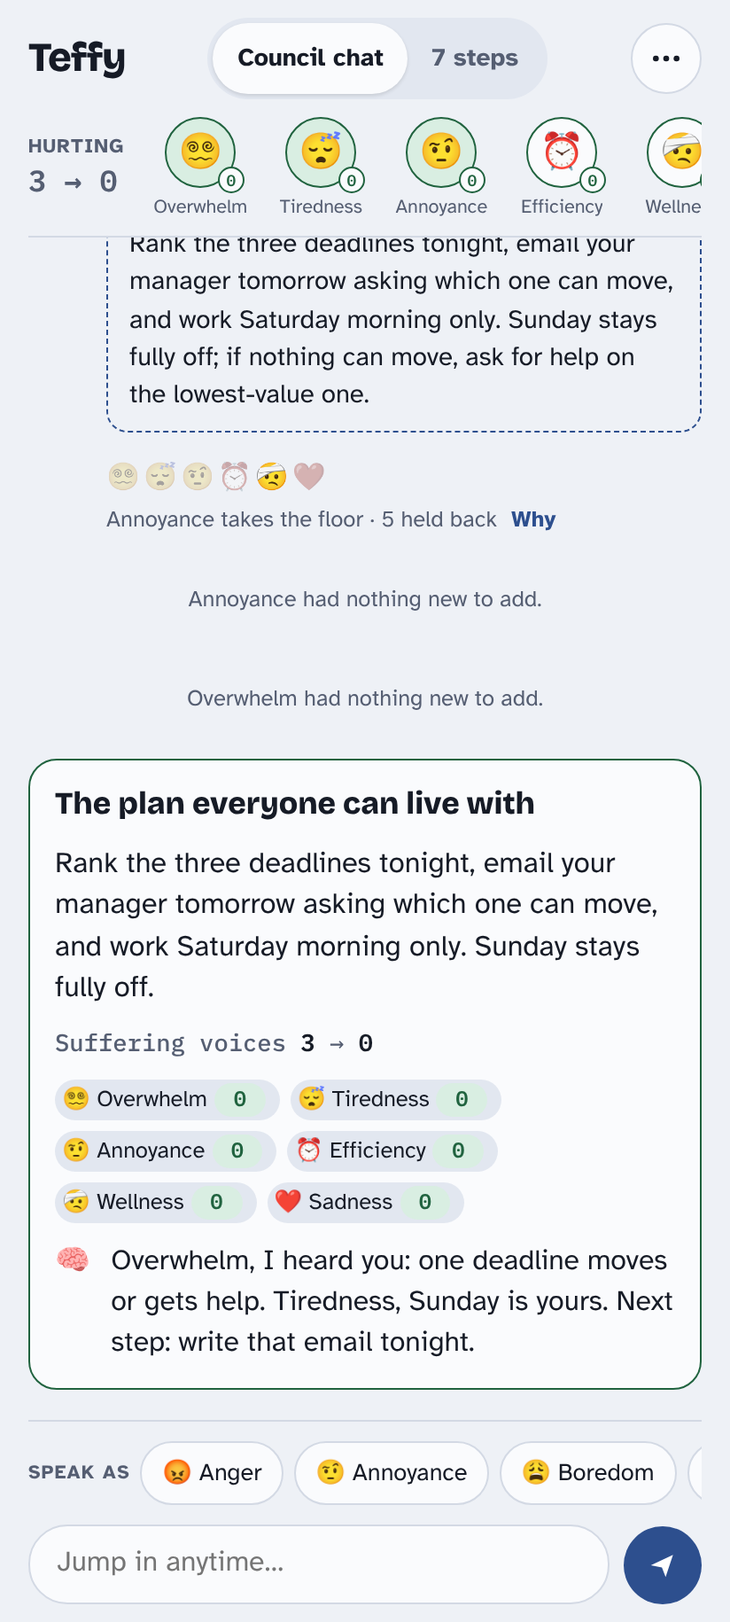
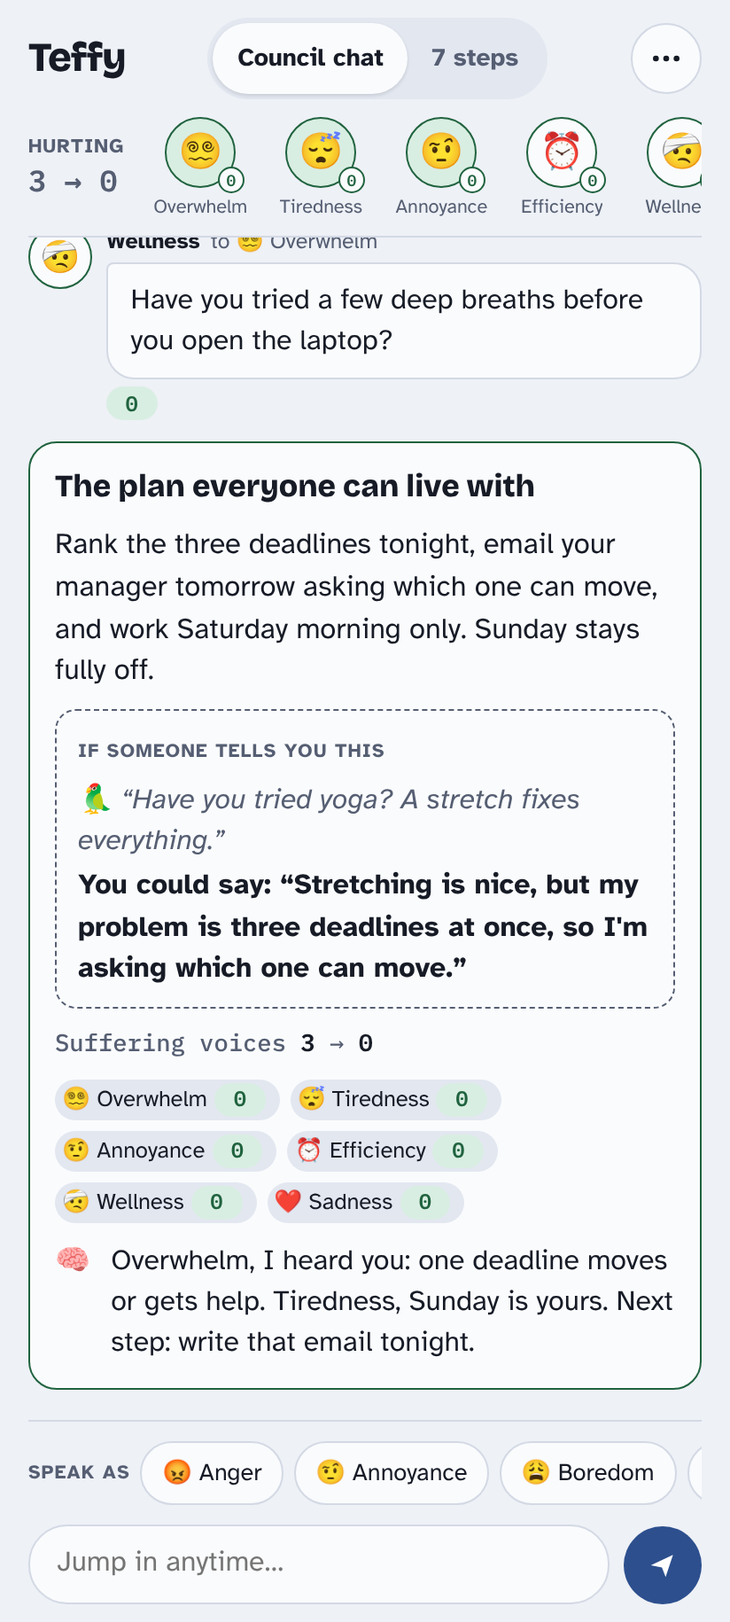
Teffy council: keep the user's wants, voice acceptance, and give helpers a turn
Openings no longer count against an emotion's turn, helpers get a real turn
after two complaints in a row, the emotion guarding the user's actual want
gets priority when that want is watered down, and Sadness only speaks up for
an emotion still unanswered after a plan update. The chat no longer ends
with requests left open or with a silent flip to 0: one emotion that came
round says so, and open requests are folded in first. The Consciousness keeps
things the user asks for (even mid-chat), adopts one alternative, times
relief steps early and says when a step delays the user's want.

Claude-Session: https://claude.ai/code/session_01WCeT9HkqgnTCjtVzMfMVYV

diff --git a/teffy/engine.js b/teffy/engine.js
@@ -171,6 +171,7 @@ var TeffyEngine = (function () {
       conditions: [],          // [{ emotion, text }]: what an emotion asked for when it came round to 0
       forYou: [],              // facts or choices only the user can supply
       neglected: "",           // Sadness's current pick, always someone at -1
+      guardian: "",            // the emotion that speaks for what the user actually wants
       askedOf: "",             // the emotion the Consciousness just asked a question
       consolidations: 0,
       messages: [],            // user | consciousness | emotion | decide | note | final
@@ -289,9 +290,10 @@ var TeffyEngine = (function () {
     return t;
   }
   const conditionLines = s => (s.conditions || []).map(c => `- ${c.emotion}: ${c.text}`).join("\n");
+  const conditionOf = (s, n) => { const c = (s.conditions || []).find(x => x.emotion === n); return c ? clip(c.text, 110) : ""; };
   const planChange = s => (s.prevPlan && s.prevPlan !== s.plan ? `THE PLAN BEFORE THE LAST UPDATE: ${s.prevPlan}` : "");
 
-  const VOICE = "Text like a real person in a group chat: casual, direct, specific, in your own words. Don't quote your catchphrase or copy phrases or quoted lines from earlier messages (refer to them instead, like \"the text to Sam\"). Talk about yourself in the first person; never call yourself by name or introduce yourself. Never mention scores, -1, 0 or \"the council\"; say what you can or can't live with in plain words. Use only facts the user gave or that came up in the chat; never invent places, times, amounts, history or what someone said. Call the user \"you\", or \"we\"/\"us\" since you're part of them.";
+  const VOICE = "Text like a real person in a group chat: casual, direct, specific, in your own words. Don't quote your catchphrase or copy phrases or quoted lines from earlier messages (refer to them instead, like \"the text to Sam\"). Talk about yourself in the first person; never call yourself by name, introduce yourself or write stage directions or gestures. Never mention scores, -1, 0 or \"the council\"; say what you can or can't live with in plain words. Use only facts the user gave or that came up in the chat; never invent people, places, times, amounts, history or what someone said (write ___ for a detail only the user knows). If you build on someone's idea, name whose it is. Call the user \"you\", or \"we\"/\"us\" since you're part of them.";
   // How every voice in the council talks, whatever its emotion.
   const CARE = [
     "Be radically non-violent and pro-human: never insult, blame, label, shame or threaten anyone (the user, the other people in their life, or the other emotions). Speak to specific actions and their effects, the need behind your feeling, and a request that respects everyone involved. Even angry, be firm and clear, never harsh.",
@@ -304,7 +306,7 @@ var TeffyEngine = (function () {
   const oneParagraph = t => cleanQuote(t).replace(/\s*\n+\s*/g, " ").replace(/\s{2,}/g, " ").trim();
   const SAFETY = "If the user seems to be in danger or in crisis, the plan must put their safety first and include reaching out to someone they trust or a crisis line.";
   const SOCIETY_NOTE = "🦜 Society is not an emotion: it's advice the user has absorbed from people and the culture and never examined (\"try deep breathing\", \"have you tried yoga\", \"take a nap\", \"don't make waves\"). It also previews the pushback the user may hear from real coworkers, friends or family. When its advice misses an emotion's specific need, that emotion, or another whose angle sees why it misses (Annoyance spots vague reasoning, Anger spots a need being minimized), calls it out: what the advice misses and what the real need is, and, when it helps, the short line the user could say back if a real person tells them this. Society's advice never becomes part of the plan unless an emotion turns it into something specific.";
-  const USER_ONLY = "Some things only the user can supply (their own numbers, a person's name, what someone else will answer). The council can't produce them, so nobody should keep asking for them. A plan step that tells the user to get or decide that thing answers the objection.";
+  const USER_ONLY = "Some things only the user can supply (their own numbers, a person's name, whether someone else will say yes). The council can't produce them, so nobody should keep asking for them. A plan step that tells the user to get or decide that thing answers the objection, as long as the plan also says what the answer must meet (\"savings cover ___ months, at least six\").";
 
   function convenePrompt(s) {
     return [
@@ -319,7 +321,7 @@ var TeffyEngine = (function () {
       "Decide who joins the chat.",
       "- \"idea\": the user's plan exactly as they stated it, as a bare first-person action (\"I push through all weekend to catch up\"), one sentence, without \"I'm thinking about\". Don't fix anything yet. If they described a feeling rather than a plan, the idea is what they're inclined to do about it.",
       "- \"suffering\": every emotion whose need THIS idea, as stated, fails right now (score -1). If the idea already serves an emotion's need, it is not suffering. Any emotion the user mentions as objecting belongs here.",
-      `- For at most ${COUNCIL.maxOpeners} of them, with clearly different needs, write "says": an opening chat message of two or three sentences about the user's actual situation: the exact part of the idea that fails its need, and one concrete request (what, how much, when; if it involves a person, the words to say). If it asks a question, it says what answer would settle it. Give every other suffering emotion "says": "" (it speaks later). Merge overlapping worries (rest, sleep, a day off) into whichever emotion says it best.`,
+      `- For at most ${COUNCIL.maxOpeners} of them, with clearly different needs, write "says": an opening chat message of two or three sentences about the user's actual situation: the exact part of the idea that fails its need, and one concrete request (one option, no either/or; what, how much in numbers, when; if it involves a person, the words to say). A request is a plain request, not "Could you…?". Give every other suffering emotion "says": "" (it speaks later). Merge overlapping worries into whichever emotion says it best: rest, sleep and a day off overlap; \"will it work\" and \"will the money last\" overlap; \"rehearse\" and \"fix the slides\" overlap. No two openings start or end the same way.`,
       "- \"need\": for each suffering emotion, what would bring it to 0.",
       "- \"helpers\": up to 3 emotions at 0 that could help the suffering ones' core needs from their own angle, with needs that differ from each other (never two that overlap, like Wellness and Tiredness). Always include, here or under suffering, the emotion that speaks for what the user actually wants (Impulsivity for fun, Loneliness for company, Anger or Annoyance for a boundary the user wants to set, and so on): it guards that want when the plan starts to water it down.",
       "- Scores are only -1 or 0. Never invent an emotion. Never leave a suffering emotion out to make things look calmer. Sadness joins on its own, so don't list it.",
@@ -327,10 +329,11 @@ var TeffyEngine = (function () {
       "- Openings are radically non-violent: no blaming, labeling or shaming the user, other people or other emotions.",
       "- " + SAFETY,
       "",
+      "- \"guardian\": the one emotion (suffering or helper) that speaks for what the user actually wants; it must be in one of the lists above.",
       "- \"serious\": true if the user seems to be in danger, in crisis, or in deep grief (no jokes belong in this chat), else false.",
       "",
       "Reply with only this JSON:",
-      "{\"idea\":\"...\",\"suffering\":[{\"emotion\":\"Overwhelm\",\"says\":\"...\",\"need\":\"...\"}],\"helpers\":[\"Efficiency\"],\"serious\":false}",
+      "{\"idea\":\"...\",\"suffering\":[{\"emotion\":\"Overwhelm\",\"says\":\"...\",\"need\":\"...\"}],\"helpers\":[\"Efficiency\"],\"guardian\":\"Efficiency\",\"serious\":false}",
     ].join("\n");
   }
 
@@ -349,7 +352,7 @@ var TeffyEngine = (function () {
       "THE EMOTIONS IN THE CHAT:",
       s.participants.map(n => n === "Sadness"
         ? `- ${profileLine(n)}\n  Has said: ${saidBy(s, n)}`
-        : `- ${profileLine(n)}\n  Score now: ${scoreWord(s.scores[n])}. Plan or user changed since it set that score: ${movedSince(s, n) ? "yes" : "no"}. Has said: ${saidBy(s, n)}.${s.lastWhy && s.lastWhy[n] ? ` Last turn it thought: "${s.lastWhy[n]}"` : ""}`).join("\n"),
+        : `- ${profileLine(n)}${n === s.guardian ? " It speaks for what the user actually wants." : ""}\n  Score now: ${scoreWord(s.scores[n])}. Plan or user changed since it set that score: ${movedSince(s, n) ? "yes" : "no"}. Has said: ${saidBy(s, n)}.${conditionOf(s, n) ? ` Accepted on: "${conditionOf(s, n)}".` : ""}${s.lastWhy && s.lastWhy[n] ? ` Last turn it thought: "${s.lastWhy[n]}"` : ""}`).join("\n"),
       "",
       "THE CHAT SO FAR (oldest first):",
       transcript(s),
@@ -358,6 +361,8 @@ var TeffyEngine = (function () {
       "- \"score\": its honest score for THE PLAN RIGHT NOW.",
       "  · -1 becomes 0 only if the plan now answers that emotion's FIRST objection (see \"first:\") as well as its latest one. Moving toward its topic isn't enough. Before saying the plan skips something, check the plan's text: if it's there, it's covered.",
       "  · 0 becomes -1 only if the plan itself now works against its own need (for example a step it accepted on was dropped). It doesn't take on a grievance another emotion raised for it.",
+      "  · For the emotion that speaks for what the user wants: if that want is now delayed, put behind something else, replaced by a softer step, or made to depend on conditions that may never be met, the plan works against its need.",
+      "  · An emotion at 0 never says it can't live with the plan; if it has a step that would make the plan better, it replies with that.",
       "  · If nothing changed since it set its score (\"no\" above), it keeps that score.",
       "  · " + USER_ONLY,
       "  · \"score\" and \"why\" must agree.",
@@ -366,11 +371,15 @@ var TeffyEngine = (function () {
       "  · pushing back because someone's advice or proposal, whoever it was meant for, or a plan change shrinks, swaps or misses what it actually asked for (set \"pushback\": true);",
       "  · a suffering emotion that has something to add beyond its last message (a number, a trade-off, a reply to someone). If it would only restate its request, false: the Consciousness answers it next;",
       "  · a helper at 0 that can give a suffering emotion a concrete step from its own angle that the plan lacks, or whose own need the plan is missing or now works against;",
-      "  · the emotion behind what the user actually wants, when a new step shrinks or swaps that want: it names the cost and offers a trade-off (set \"pushback\": true).",
+      "  · the emotion behind what the user actually wants, when a new step shrinks, delays or swaps that want: it names the cost and offers a trade-off (set \"pushback\": true);",
+      "  · any emotion whose angle sees the plan drop or swap something the user themselves asked for (in their thought or a later message): it names the swap (set \"pushback\": true);",
+      "  · an emotion that just came round and has a condition that isn't in the plan text yet.",
       "  false if another emotion already made its point (even in other words) and it has nothing to build on, if it would only agree (\"deal\"), if it already made the same demand twice and only the user can settle it, or if someone just told it it's looping. Usually one or two emotions want in.",
-      "- \"why\": under 15 words, in that emotion's voice, the specific point it would make or why it holds back. Don't reuse the wording of its last turn.",
+      "- \"why\": under 15 words, in that emotion's voice, the specific point it would make or why it holds back. No gestures or stage directions. Don't reuse the wording of its last turn, and stick to what \"Has said\" shows.",
       s.messages.some(m => m.kind === "society") ? "- " + SOCIETY_NOTE + " Calling Society out is never repeating yourself (set \"pushback\": true)." : "",
       "Sadness never gets a score. Also give \"neglected\": the emotion at -1 that has been heard and answered least so far (never Sadness), or \"\" if nobody is at -1.",
+      "",
+      `"council" lists all ${s.participants.length}: ${s.participants.join(", ")}.`,
       "",
       "Reply with only this JSON:",
       "{\"neglected\":\"Embarrassment\",\"council\":[{\"emotion\":\"Anger\",\"score\":-1,\"reply\":true,\"pushback\":false,\"why\":\"...\"}]}",
@@ -400,7 +409,7 @@ var TeffyEngine = (function () {
       `THE PLAN RIGHT NOW (don't propose what it already says): ${s.plan}`,
       sad ? "" : `WHERE YOU STAND: ${score < 0 ? "you still can't live with the plan" : "you can live with the plan"}.`,
       !sad && score === 0 && hurting.length ? `STILL HURTING: ${hurting.join(", ")}. Since you can live with the plan, your job is to make one of their fixes work for YOUR need too (cheaper, faster, more fun, safer, whatever you care about), or to name how it clashes with your need and offer a trade-off. Don't tighten or extend their demand on their behalf, and don't add a wish of your own.` : "",
-      `YOUR POINT (your message must make this point, in your own words): ${why || "you have something to add"}`,
+      `YOUR POINT (make this point, but don't copy these words): ${why || "you have something to add"}`,
       toMe,
       "",
       "WHAT YOU'VE ALREADY SAID, AND WHAT OTHERS SAID TO OR ABOUT YOU (never repeat yourself):",
@@ -411,7 +420,7 @@ var TeffyEngine = (function () {
     }
     lines.push("", "THE CHAT SO FAR (oldest first):", transcript(s), "");
     const openers = firstWords(s);
-    const avoid = `Don't open with "Same", "Nah", "Fine", "Okay", "Grudgingly" or "I hear you"${openers.length ? `, or the way the last messages opened (${openers.map(w => `"${w}"`).join(", ")})` : ""}.`;
+    const avoid = `Don't open with "Same", "Nah", "Fine", "Okay", "Honestly", "Grudgingly", "I hear you", "I'm with", "I can live with" or "I still can't live with"${openers.length ? `, or the way the last messages opened (${openers.map(w => `"${w}"`).join(", ")})` : ""}. Don't use the shape "X works for me, what I can't live with is…, so I need…". Write like texting a friend: contractions, a quick reaction, then your point.`;
     if (mode === "accept") {
       lines.push(
         `You just came round: you can live with the plan now. Write one or two sentences in your own words saying so, and, only if one exists, the one condition from YOUR OWN need (${e.need.split(/[.;]/)[0].trim()}) that is not already written in the plan. Never restate the plan's steps, times or numbers, and never repeat a condition another emotion already gave.`,
@@ -419,7 +428,7 @@ var TeffyEngine = (function () {
         "- " + avoid);
     } else if (sad) {
       lines.push(
-        `Write your next message: speak TO ${s.neglected || "the emotion that has been heard least"} with warmth. Quote or paraphrase one specific thing it said, name the feeling under its need in plain words, and ask ONE specific emotion or the Consciousness to do one concrete thing about it. Don't repeat a request it made itself in the last two messages, don't speak for it or give it feelings it didn't express, and make no plan proposals of your own. ${PARAGRAPH}`,
+        `Write your next message: speak TO ${s.neglected || "the emotion that has been heard least"} with warmth. Quote or paraphrase one specific thing it said, name the feeling under its need in plain words, and ask the Consciousness to answer its request as it stated it. Never choose between its options, add a backup, restate its request's details, speak for it or give it feelings it didn't express, and make no plan proposals of your own. ${PARAGRAPH}`,
         "- " + VOICE,
         "- " + CARE,
         "- " + avoid);
@@ -429,7 +438,7 @@ var TeffyEngine = (function () {
         "- " + VOICE,
         "- " + CARE,
         "- " + avoid,
-        "- Respond to what was actually said. If you agree with a proposal someone actually made, say so in your own words and add only your own condition.",
+        "- Respond to what was actually said. Stay inside your own need: change exactly one thing, and don't restate other emotions' points or the plan's steps as a preamble.",
         "- Never repeat a suggestion that was already made or turned down. If your idea was turned down, or someone told you you're repeating yourself, take the hint: accept grudgingly with one condition, leave the open fact for the user, or back off.",
         "- Push back when someone's advice or proposal, whoever it was meant for, shrinks, swaps or misses what you actually need: name who, what it missed, and what would work instead.",
         "- If your request is already on the table and the plan hasn't changed since, don't just repeat it: add something new (a trade-off, an answer to someone, a detail) or say you'll wait for the Consciousness.",
@@ -437,7 +446,7 @@ var TeffyEngine = (function () {
         "- Don't argue for another emotion's need; if it matters, name that emotion so it can speak for itself.",
         "- " + SOCIETY_NOTE + " If Society just gave you (or someone whose need you understand) advice that misses, call it out in your own words, with humor if you like: why it doesn't solve the actual problem, and what would. If it fits, add the one short, kind, firm line the user could say back to a real person who tells them this. Call out the advice, never insult anyone.",
         "- " + USER_ONLY,
-        "- \"score\": -1 if the plan still fails your need, 0 if you can live with it now (grudgingly is fine). If you were already at 0, you stay at 0 unless the plan itself changed against your need, and don't say you're \"coming round\". Getting what you asked for never lowers it. Don't fake agreement.");
+        "- \"score\": -1 if the plan still fails your need, 0 if you can live with it now (grudgingly is fine). If you were already at 0, you stay at 0 unless the plan itself changed against your need: never write that you can't live with the plan, just give the step that would make it better, and don't say you're \"coming round\". Getting what you asked for never lowers it. Don't fake agreement.");
     }
     lines.push(
       "- \"to\": the emotion you're answering, \"Consciousness\", or \"all\".",
@@ -489,10 +498,10 @@ var TeffyEngine = (function () {
       `SCORES: ${scoreList(s)}`,
       "CHANGES THE EMOTIONS ASKED FOR SINCE THE LAST UPDATE:",
       proposalsOpen(s).join("\n") || "(none)",
-      heldBack(s) ? `POINTS EMOTIONS RAISED WHILE HOLDING BACK (fold in any concrete one that fits):\n${heldBack(s)}` : "",
+      heldBack(s) ? `POINTS EMOTIONS RAISED WHILE HOLDING BACK (fold in any concrete one that fits, as your own call; never say that emotion asked for it):\n${heldBack(s)}` : "",
       promised ? `CONDITIONS EMOTIONS ACCEPTED ON (keep every one):\n${promised}` : "",
       (s.forYou || []).length ? `ALREADY LEFT FOR THE USER TO SETTLE: ${s.forYou.join("; ")}` : "",
-      userLine ? `THE USER JUST SAID: "${userLine}" (answer this first)` : "",
+      userLine ? `THE USER JUST SAID: "${userLine}" (answer this first. Any specific thing they say they want, like a food, a stop or a person, is now part of what they want: put it in the plan and adjust the other steps around it, or say in one sentence why it truly can't fit.)` : "",
       mine ? `YOUR EARLIER MESSAGES (never ask the same question again or reuse their wording):\n${mine}` : "",
       "",
       "THE CHAT SO FAR (oldest first):",
@@ -500,7 +509,10 @@ var TeffyEngine = (function () {
       "",
       "Update the plan, but don't just stack every request:",
       "- Adopt changes that help a suffering emotion. Prefer one step that serves two needs at once. Drop add-ons from emotions already at 0 unless they cost nothing; a shorter plan beats a stacked one. When a request offers alternatives, pick one.",
-      "- Keep every condition an emotion accepted on, and keep the specific things the user said they want (adjust around them rather than swapping in a substitute). Never drop or weaken those unless the owner agreed in its own message.",
+      "- Keep every condition an emotion accepted on, and keep the specific things the user said they want (adjust around them rather than swapping in a substitute). Never drop or weaken those unless the owner agreed in its own message. The user's core want survives in some form with a firm trigger (by when, and what happens if a condition fails), never depending only on someone else cooperating.",
+      "- If an emotion objected to a step already in the plan, change or remove that step, or say in one clause why you kept it. Never say a step answers an emotion if its latest message says it doesn't.",
+      "- When a request offers alternatives, adopt exactly one and say which you dropped. A backup runs only if the main step fails; never also tell the user to do the backup now.",
+      "- Timing: a step that relieves a deadline or a worry happens at the earliest realistic moment (today or tomorrow), before the thing it protects.",
       "- DECIDE concrete details the emotions are waiting on (the words of a text, who does what, the order of steps) with a realistic default from the situation. Never hand such a question back. Never invent a place, time or amount nobody stated: if the plan needs one only the user knows, write it as a blank (\"___\") and list it in forYou.",
       "- When you address an emotion, answer its exact question in its own terms. If the answer is something only the user knows (what they fear most, a person's name), put it in forYou and add a plan step for the user to settle it.",
       "- If an emotion objects to how the user worded something, keep what the user means in fair words instead of dropping it, and say which part you kept.",
@@ -512,9 +524,9 @@ var TeffyEngine = (function () {
       "- Be honest about the trade-off: what the user gives up, and the fallback if a step fails (a genuinely different path, not a step already in the plan). For a big decision, name the go/no-go test precisely: what counts, by when.",
       "- Read the new plan as the user would: steps in the order they actually happen, every step fits the main decision, nothing contradicts, nothing left over from the old plan, everything doable in the user's real timeframe.",
       "- \"plan\": written to the user in plain second person (\"Text Sam now…\"), at most three short sentences. No emotion names and no chat logistics. Any message the user sends someone appears in quotes with the actual words, and those words answer the feeling the user named about that person. Radically non-violent and pro-human: fair to everyone involved. " + SAFETY,
-      "- \"text\": your message to the chat, one paragraph of at most 4 sentences, no line breaks, in one voice. Open with the specific worry you're answering (not a general \"that's a lot\" or \"I hear you\"). Don't start with your name, don't do a roll call: name at most two emotions. If the user just spoke, answer them. Ask a question only if its answer would change the plan, then ask ONE emotion that still can't live with the plan (the one heard least) and say why; otherwise just state the decision. Never mention scores.",
+      "- \"text\": your message to the chat, one paragraph of at most 4 sentences, no line breaks, in one voice. Open with the decision you just made or the worry you're answering, in your own words (never an emotion's wording, never a general \"that's a lot\" or \"I hear you\"). Don't recap steps that didn't change; if a new step delays or shrinks what the user wanted, name that trade-off plainly. Never ask an emotion about timing, order or wording you can decide yourself. Don't start with your name, don't do a roll call: name at most two emotions. If the user just spoke, answer them. Ask a question only if its answer would change the plan, then ask ONE emotion that still can't live with the plan (the one heard least) and say why; otherwise just state the decision. Never mention scores.",
       "- \"ask\": the emotion you asked, or \"\".",
-      "- \"forYou\": short items only the user can settle, each under 12 words, or [].",
+      "- \"forYou\": short facts or choices only the user can supply, each under 12 words, never an action already written in the plan, or [].",
       "",
       "Reply with only this JSON:",
       "{\"plan\":\"...\",\"text\":\"...\",\"ask\":\"\",\"forYou\":[]}",
@@ -544,6 +556,7 @@ var TeffyEngine = (function () {
       `STILL SUFFERING: ${still.length ? still.join(", ") : "none"}`,
       promised ? `CONDITIONS EMOTIONS ACCEPTED ON (the plan keeps every one):\n${promised}` : "",
       (s.forYou || []).length ? `FOR THE USER TO SETTLE: ${s.forYou.join("; ")}` : "",
+      proposalsOpen(s).length ? `REQUESTS SINCE THE LAST UPDATE (adopt any that cost little and fit; if you skip one, say why in "text"):\n${proposalsOpen(s).join("\n")}` : "",
       "",
       "THE CHAT SO FAR (oldest first):",
       transcript(s),
@@ -551,7 +564,7 @@ var TeffyEngine = (function () {
       "Write:",
       "- \"plan\": the final plan, to the user in plain second person, at most three short sentences, keeping every accepted condition and the specific things the user said they want. No emotion names. Any message to someone appears in quotes with the actual words. Radically non-violent and pro-human. " + SAFETY,
       heard.length ? `- "heard": one entry per piece of Society advice below, in order. "advice" is the advice as a real person might say it to the user (short), and "reply" is one sentence the user could say back: kind, firm, radically non-violent, in first person, naming the actual need the emotions identified (use the call-out). These prepare the user for the pushback they may get when they open up to people.\nSOCIETY'S ADVICE AND THE CALL-OUTS:\n${heard.map(h => `- Society to ${h.to}: "${h.advice}"${h.callout ? `\n  Called out by ${h.callout}` : ""}`).join("\n")}` : "",
-      "- \"text\": your closing message to the user, in first person, one paragraph of at most 4 sentences, no line breaks, in the emotional personification language. Speak to anyone in STILL SUFFERING (how the plan still looks after them), and name at most two emotions and the specific step each one added. Sadness is only ever listed because the emotion it spoke up for is still hurting: say so, and never give Sadness a grievance of its own. Only mention a concern an emotion actually said in the chat. Add the one thing your last message didn't say (the fallback, or the next concrete step) instead of restating the plan. Never use the words score, council, -1, 0 or \"still suffering\". No filler (\"I'll keep checking in\", \"your feelings are valid\").",
+      "- \"text\": your closing message to the user, in first person, one paragraph of at most 4 sentences, no line breaks, in the emotional personification language. Speak to anyone in STILL SUFFERING (how the plan still looks after them), and name at most two emotions and the specific step each one added. Sadness is only ever listed because the emotion it spoke up for is still hurting: say so, and never give Sadness a grievance of its own. Only mention a concern an emotion actually said in the chat. Add the one thing your last message didn't say (the fallback, or the next concrete step) instead of restating the plan. If the final plan changes or delays what the user said they wanted, say so plainly: what they still get, and when. Never credit an emotion with a step that came from someone else. Never use the words score, council, -1, 0 or \"still suffering\". No filler (\"I'll keep checking in\", \"your feelings are valid\", \"that's what makes it real\").",
       "",
       "Reply with only this JSON:",
       heard.length ? "{\"plan\":\"...\",\"heard\":[{\"advice\":\"...\",\"reply\":\"...\"}],\"text\":\"...\"}" : "{\"plan\":\"...\",\"text\":\"...\"}",
@@ -584,12 +597,12 @@ var TeffyEngine = (function () {
 
   // Rough sameness of two messages: share of words in common. Used to drop a speaker repeating itself.
   const words = t => new Set(String(t || "").toLowerCase().replace(/[^a-z0-9\s]/g, " ").split(/\s+/).filter(w => w.length > 2));
-  function similar(a, b) {
+  function similar(a, b, threshold) {
     const A = words(a), B = words(b);
     if (!A.size || !B.size) return false;
     let both = 0;
     A.forEach(w => { if (B.has(w)) both++; });
-    return both / Math.min(A.size, B.size) >= 0.8;
+    return both / Math.min(A.size, B.size) >= (threshold || 0.8);
   }
 
   function applyConvene(s, c) {
@@ -612,10 +625,12 @@ var TeffyEngine = (function () {
 
     s.idea = cleanQuote(c.idea) || s.thought;
     s.serious = c.serious === true || c.serious === "true";
+    const g = findEmotion(c.guardian);
     s.plan = s.idea;
     opening.forEach(x => addParticipant(s, x.name, -1));
     helpers.forEach(em => addParticipant(s, em.name, 0));
     addParticipant(s, "Sadness", 0);
+    s.guardian = g && s.participants.includes(g.name) && g.name !== "Sadness" ? g.name : "";
     s.neglected = opening.length ? opening[opening.length - 1].name : "";
     s.messages.push({ kind: "consciousness", text: s.idea, plan: s.plan, planUpdate: true, opening: true });
     let voiced = 0;
@@ -648,6 +663,9 @@ var TeffyEngine = (function () {
       item.score = s.scores[em.name] < 0 ? -1 : 0;
       items.push(item);
     }
+    for (const name of s.participants) {
+      if (!items.some(i => i.emotion === name)) items.push({ emotion: name, reply: false, pushback: false, why: "", prev: s.scores[name], score: s.scores[name] });
+    }
     const n = findEmotion(p.neglected);
     if (n && n.name !== "Sadness" && s.participants.includes(n.name) && s.scores[n.name] < 0) s.neglected = n.name;
     else if (!(s.neglected && s.scores[s.neglected] < 0)) s.neglected = suffering(s)[0] || "";
@@ -673,7 +691,12 @@ var TeffyEngine = (function () {
     // Messages since the plan last changed, per emotion: a voice repeating its demand to an unchanged plan is stalling.
     let since = s.messages.length - 1;
     while (since >= 0 && !(s.messages[since].kind === "consciousness" && s.messages[since].planUpdate)) since--;
-    const sinceUpdate = n => s.messages.slice(since + 1).filter(m => m.kind === "emotion" && m.from === n).length;
+    const sinceUpdate = n => s.messages.slice(since + 1).filter(m => m.kind === "emotion" && !m.opening && m.from === n).length;
+    const lastTwoHurting = said.filter(m => !m.opening).slice(-2);
+    const hurtingStreak = lastTwoHurting.length === 2 && lastTwoHurting.every(m => m.score < 0);
+    // Sadness speaks up only for an emotion that asked and is still unanswered after a plan update.
+    const neglectedAsked = s.neglected && said.slice(0, since + 1).some(m => m.from === s.neglected);
+    const sadnessSpokeSince = s.messages.slice(since + 1).some(m => m.kind === "emotion" && m.from === "Sadness");
     const weight = d => {
       const n = d.emotion;
       const hurting = n !== "Sadness" && s.scores[n] < 0;
@@ -681,11 +704,13 @@ var TeffyEngine = (function () {
       if (s.askedOf === n) v += 6;                                    // the Consciousness asked it a question
       if (addressed === n) v += 5;                                     // another emotion spoke to it
       if (d.pushback) v += 4;                                          // someone's advice missed its real problem
+      if (d.pushback && n === s.guardian) v += 3;                      // the user's own want is being watered down
       if (hurting) v += 3;                                             // suffering voices go first
       if (n === s.neglected && hurting) v += 2;                        // Sadness's pick
       if (d.prev < 0 && d.score === 0) v += 2;                         // just came round: let it say so
-      if (!spoke(n)) v += hurting ? 2 : 1;                             // hasn't had a turn yet
-      if (n === "Sadness") v += !s.neglected || lastHeard(s.neglected) <= 1 ? -6 : lastHeard(s.neglected) > 2 ? 3 : 0;
+      if (n !== "Sadness" && !said.some(m => m.from === n && !m.opening)) v += 2;   // hasn't had a real turn yet
+      if (!hurting && n !== "Sadness" && hurtingStreak) v += 3;                     // let a helper in after two complaints
+      if (n === "Sadness") v += neglectedAsked && !sadnessSpokeSince && lastHeard(s.neglected) > 1 && s.scores[s.neglected] < 0 ? 3 : -6;
       if (hurting && sinceUpdate(n) >= 1 && !d.pushback && addressed !== n) v -= 6;   // one message per version of the plan
       v -= 3 * Math.max(0, spoke(n) - 2);                              // nobody takes over the chat
       if (recent.includes(n)) v -= 4;
@@ -710,11 +735,13 @@ var TeffyEngine = (function () {
     if (t.includes("user") || t === "you" || t === "me") return "You";
     return "all";
   }
-  function applySpeak(s, name, m, why) {
+  function applySpeak(s, name, m, why, mode) {
     if (!m || typeof m !== "object") throw badShape("speak");
     let text = oneParagraph(m.text)
       .replace(new RegExp(`^(?:${name}|[\\w-]+(?:-[\\w-]+)?)\\s+here\\s*[,.:!—-]+\\s*`, "i"), "")    // "Frugality here, …"
-      .replace(/^(?:same|nah|fine|okay|ok|grudgingly|i hear you)\s*[,.!:—-]+\s*/i, "");             // stock openers ("Fine, …")
+      .replace(/^(?:\*[^*]{1,60}\*|\([^)]{1,60}\)|_[^_]{1,60}_)\s*/, "")                          // *sighs*, (shaking head)
+      .replace(/^[^.!?:]{0,40}\b(?:head|eyes|hood|hoodie|sigh|sighs|shrug|shrugs|nod|nods|shaking)\b[^.!?:]{0,30}:\s*/i, "")   // "Head shaking no, hard: …"
+      .replace(/^(?:same|nah|fine|okay|ok|grudgingly|honestly|i hear you)\s*[,.!:—-]+\s*/i, "");    // stock openers ("Fine, …")
     if (text) text = text[0].toUpperCase() + text.slice(1);
     if (!text) throw badShape("speak");
     const mine = emotionMessages(s).filter(x => x.from === name).slice(-3);
@@ -735,7 +762,7 @@ var TeffyEngine = (function () {
       proposal: name === "Sadness" ? "" : cleanQuote(m.proposal), why: why || "",
     });
     // Coming round to 0 is conditional: remember what it was promised.
-    if (prev < 0 && score === 0) {
+    if ((prev < 0 && score === 0) || (mode === "accept" && score === 0 && name !== "Sadness")) {
       if (!s.conditions) s.conditions = [];
       s.conditions = s.conditions.filter(c => c.emotion !== name).concat([{ emotion: name, text: clip(text, 160) }]);
     }
@@ -771,7 +798,7 @@ var TeffyEngine = (function () {
       io.update({ busy: "speak", who: name });
       let repeated = false;
       const m = await soft(() => ask(speakPrompt(s, name, why, mode), "speak", name)
-        .then(r => { try { applySpeak(s, name, r, why); } catch (e) { if (e && e.code === "repeat") repeated = true; throw e; } return r; }));
+        .then(r => { try { applySpeak(s, name, r, why, mode); } catch (e) { if (e && e.code === "repeat") repeated = true; throw e; } return r; }));
       if (!m) {
         s.messages.push({ kind: "note", text: repeated ? `${name} had nothing new to add.` : `${name} started typing, then stopped.` });
         if (s.askedOf === name) s.askedOf = "";
@@ -840,16 +867,21 @@ var TeffyEngine = (function () {
       io.update({});
 
       if (!fresh && !suffering(s).length && s.consolidations > 0) {
-        // Everyone can live with it. One last turn for someone who actually wants it (a gap in the plan,
-        // or a condition that isn't written in yet), then wrap up.
-        const name = speaker || "";
+        // Everyone can live with it. Someone who wants in gets one last turn; otherwise one emotion that just
+        // came round says so out loud (its grudging condition). Requests still open get folded in before the end.
+        const flipped = decisions.filter(d => d.prev < 0 && d.score === 0 && d.emotion !== "Sadness")
+          .sort((a, b) => emotionMessages(s).filter(m => m.from === a.emotion).length - emotionMessages(s).filter(m => m.from === b.emotion).length);
+        const name = speaker || (flipped[0] && flipped[0].emotion) || "";
         decideMsg.speaker = name;
         if (name) {
           const dd = decisions.find(x => x.emotion === name) || {};
           await speak(name, dd.why || "", dd.prev < 0 && dd.score === 0 ? "accept" : "");
         }
         s.askedOf = "";
-        if (!suffering(s).length && await finish()) return;
+        if (suffering(s).length || io.stopped()) continue;
+        if (proposalsOpen(s).length && !s.closingFold) { s.closingFold = true; await consolidate(s, io, ask, soft); continue; }
+        s.closingFold = false;
+        if (await finish()) return;
         continue;
       }
 
@@ -886,7 +918,7 @@ var TeffyEngine = (function () {
     if (lastC && similar(lastC.text, text) && (!plan || plan === lastC.plan)) { s.quiet++; io.update({}); return; }   // nothing new to say
     if (plan && plan !== s.plan) { s.prevPlan = s.plan; s.plan = plan; s.planVersion = (s.planVersion || 0) + 1; }
     const items = arr(c.forYou).map(x => clip(oneParagraph(x), 90)).filter(Boolean);
-    items.forEach(x => { if (!s.forYou.some(y => similar(x, y))) s.forYou.push(x); });
+    items.forEach(x => { if (!s.forYou.some(y => similar(x, y, 0.6))) s.forYou.push(x); });
     s.forYou = s.forYou.slice(-4);
     const asked = findEmotion(c.ask);
     s.askedOf = asked && asked.name !== "Sadness" && s.participants.includes(asked.name) ? asked.name : "";
